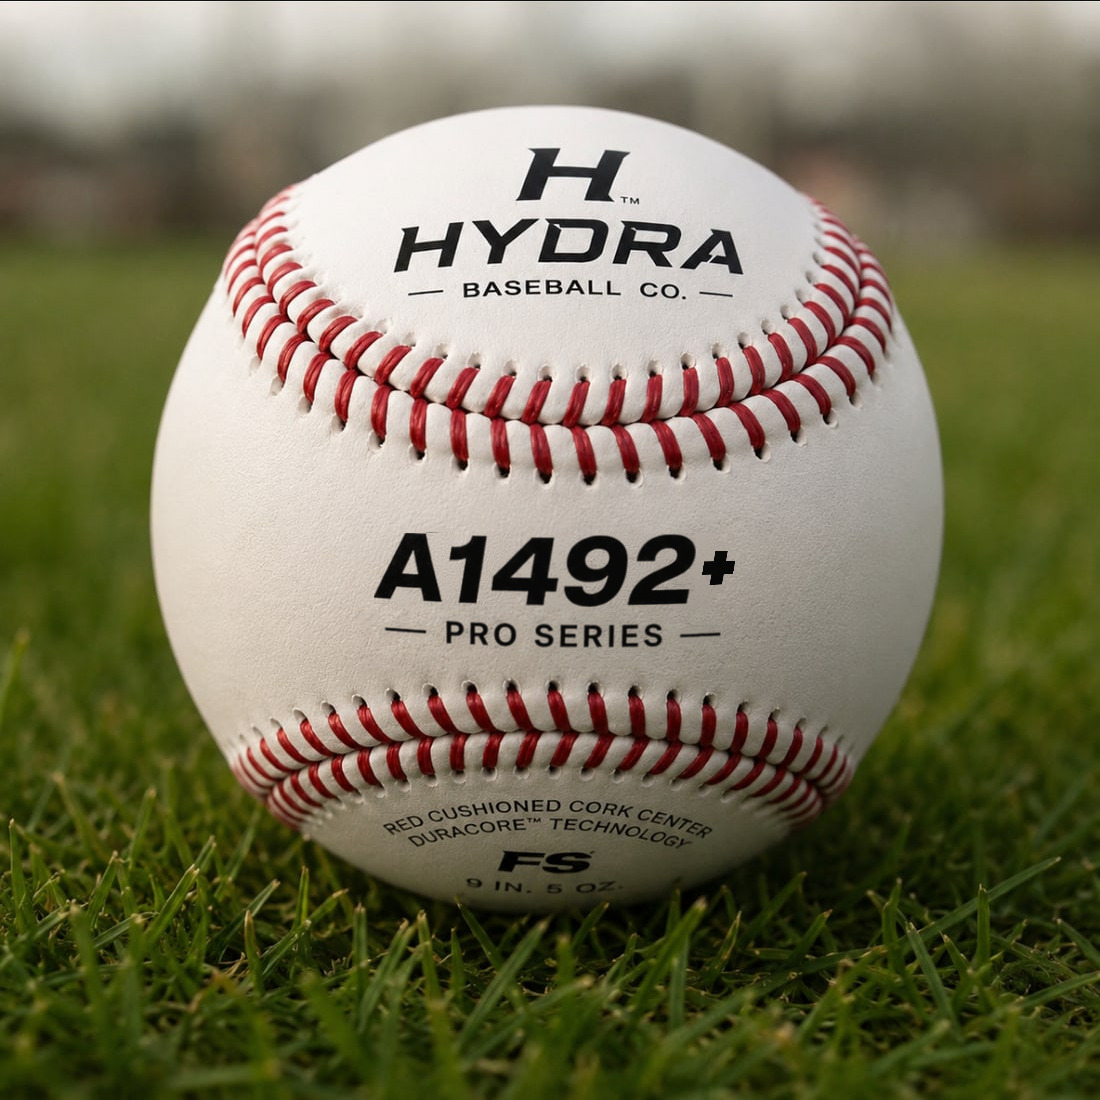
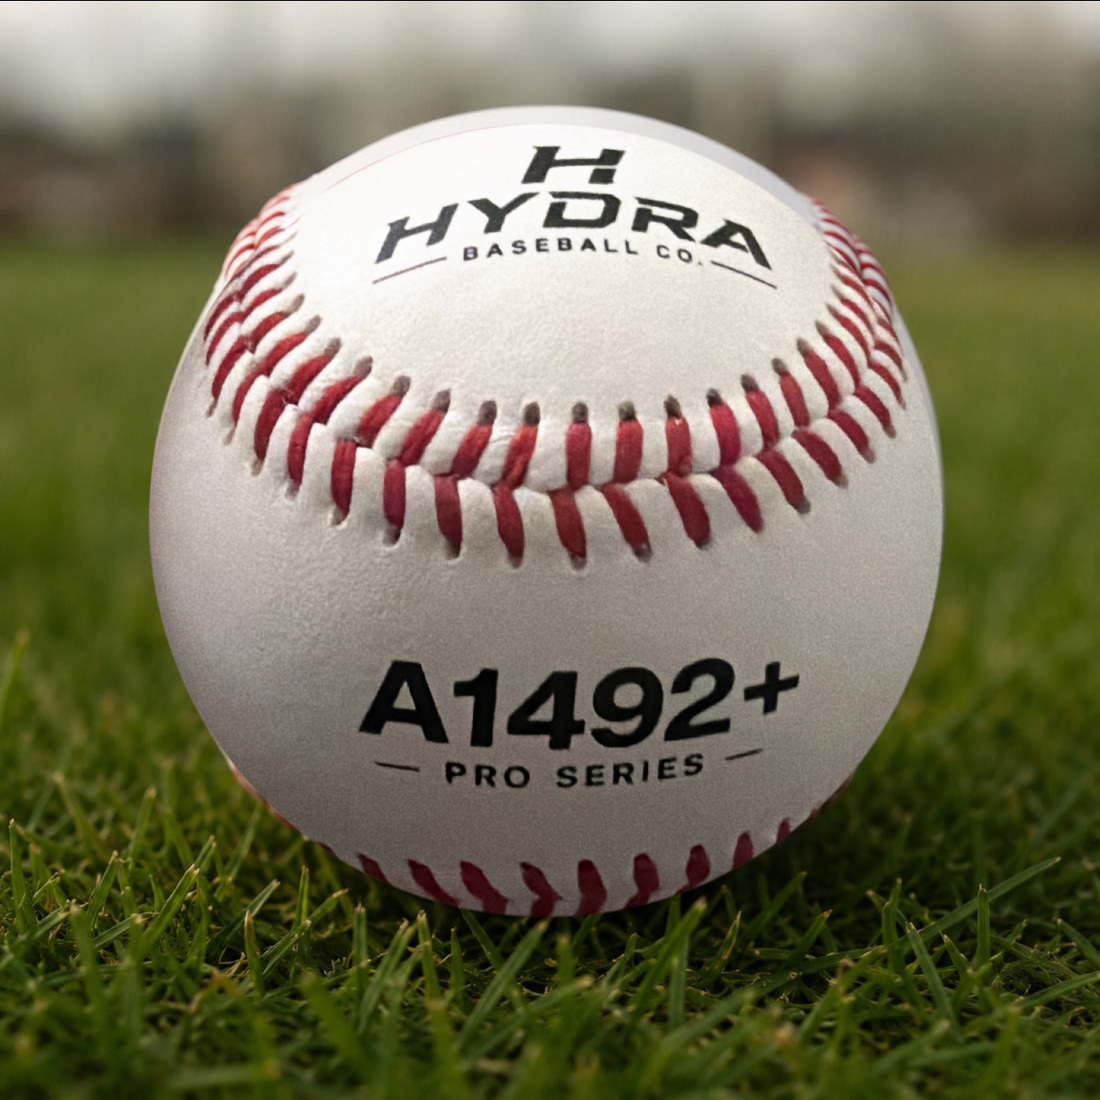
Use the real A1492+ photo, and land the two team runs
The game ball's shot was synthesised in the last commit: the A1492
letterforms lifted off ball.jpg and a plus drawn after them, because no
photograph of a plus was to hand. There is one now. Rebuild
make-ball-plus.py around it.

The phone shot was taken indoors over a stack of shipping cartons, but
the ball in it is whole — the hand cups it from behind, nothing crosses
the limb — so the disc lifts out entire, printing and stitching and all.
The tool fits a circle to the silhouette (bright, neutral, largest blob;
fitted on the top three quarters of the outline, since the shaded
underside falls below the threshold and its edge is not a limb),
corrects the warm indoor light to daylight off the plain leather in both
photographs, and lays the disc into ball.jpg at that ball's own place and
size. The grass, the depth of field and the contact shadow come from the
plate, none of them being inside the disc; the ball goes in five pixels
large so its limb covers the softer, out-of-focus one it replaces.

The mark is now the one that was printed rather than one built to look
like it, so make-ball-blank.py goes back to what it was — nothing
imports it any more.

The two custom runs land as well, straight off the customizer, so the
row under the features is all photographs.

Claude-Session: https://claude.ai/code/session_01KmmHMWSzhkTYqg9vWCQ8DX

Changed region(s): [[0.1236, 0.1236, 0.8655, 0.8345]]

diff --git a/tools/make-ball-plus.py b/tools/make-ball-plus.py
@@ -1,220 +1,144 @@
-"""Build the A1492+ product shot from the A1492 one.
+"""Put the A1492+ on the field the A1492 was photographed on.
 
-Reads public/images/ball.jpg (the A1492 Pro Series shot) and writes
+Reads
 
-  public/images/ball-plus.jpg   the same ball, stamped A1492+
+  public/images/ball-plus-src.jpg   the game ball, shot indoors over the boxes
+  public/images/ball.jpg            the A1492 product shot, for its field
 
-The game ball carries a "+" after the model number; the practice ball does
-not. Both are otherwise the same ball, photographed on the same field, so the
-plus is printed onto the photo the site already ships rather than shot again.
+and writes
 
-The mark is not redrawn from a font. It is lifted off the photograph the way
-make-panel-lockup.py lifts it -- black top-hat for the ink, then flattened off
-the sphere -- so the letterforms stay the ones that were printed. Only the plus
-is new: an upright cross built to the numerals' own stroke width and cap
-height, then sheared to the lean measured off their stems.
+  public/images/ball-plus.jpg       the game ball, on that field
 
-Adding a glyph makes the mark wider, so the model line slides left by half the
-plus's advance and A1492+ sits centred in the panel the way A1492 did. The
-PRO SERIES line underneath is untouched. Then the panel is cleared and the
-whole thing printed back, both by make-ball-blank.py's own routines, so the
-ink lands at the density the printing it replaced was measured at.
+The two balls differ only by the "+" after the model number, and the only
+photograph of a plus is a phone shot taken in a dim room over a stack of
+shipping cartons. The ball in it is whole: the hand cups it from behind and
+nothing crosses the limb, so the disc lifts out entire, with its printing and
+its stitching, and needs no reconstruction. Dropping it onto the A1492's field
+at that ball's own place and size brings the grass, the depth of field and the
+contact shadow along with it, since none of those are inside the disc.
+
+The limb is found rather than measured. Threshold for something bright and
+neutral (the leather; skin and cardboard are warm), keep the largest blob, and
+fit a circle to the top three quarters of its outline — the shaded underside
+falls below the threshold, so the outline there is the threshold's edge and not
+the ball's. The fit is then re-run a few times without whatever points sit far
+off it.
+
+Indoors the leather reads warm and dim. A per-channel gain, measured off the
+plain leather in both photographs, carries it to daylight; the highlights are
+rolled off with a tanh rather than clipped, which would flatten the top of the
+sphere. The ball is laid in a few pixels large so its own limb covers the
+softer, out-of-focus one it replaces instead of leaving a rim of it showing.
 
 Run from the repo root:  python3 tools/make-ball-plus.py
 """
-import importlib.util
-import pathlib
-
-from PIL import Image
+from PIL import Image, ImageOps
 import numpy as np
+from scipy import ndimage as ndi
 
-ROOT = pathlib.Path(__file__).resolve().parent.parent
-SRC = 'public/images/ball.jpg'
+HAND = 'public/images/ball-plus-src.jpg'
+PLATE = 'public/images/ball.jpg'
 OUT = 'public/images/ball-plus.jpg'
 
-# The A1492 mark does not fill the leather between the seams, so the plus goes
-# on beside it rather than the line being shrunk to make room. Both the box the
-# printing is cleared from and stamped back into, and the flat frame the panel
-# is read onto, are widened past make-ball-blank.py's PANEL_BOX to hold it.
-PLUS_BOX = (355, 790, 515, 695)
-# fx across, fy down, in radii, at PX pixels per radius — the frame of
-# make-panel-lockup.py's unproject(), opened up to cover PLUS_BOX.
-FX0, FX1, FY0, FY1, PX = -0.55, 0.72, -0.12, 0.47, 1400.0
+# The ball in the plate (the same fit make-ball-blank.py measures), and the
+# black band along its top edge, cropped after compositing.
+BALL_CX, BALL_CY, BALL_R = 545.5, 536.8, 394.5
+TOP_CROP = 17
 
-# The plus, in multiples of the model line's cap height and stroke. Sized off
-# the photo of the real ball: a raised cross about half the digits' height, cut
-# a little finer than their stems.
-PLUS_H = 0.47
-PLUS_STROKE = 0.72
-PLUS_GAP = 0.10                       # space between the 2 and the plus
-PLUS_MID = 0.51                       # its centre, above the digits' baseline
+# The plate's ball is a touch soft at the limb, so the new one goes in this
+# many pixels larger to cover it.
+PAD = 5.0
+# Leather against a warm, dim room: bright enough, neutral enough, not orange.
+LIT = 85
+NEUTRAL = 0.26
+WARM = 48
+# Highlights above this roll off instead of clipping, once the gain is on.
+KNEE = 225.0
 
 
-def load(name):
-    """Import a sibling tool by filename (they are scripts, not modules)."""
-    spec = importlib.util.spec_from_file_location(
-        name.replace('-', '_'), ROOT / 'tools' / (name + '.py'))
-    mod = importlib.util.module_from_spec(spec)
-    spec.loader.exec_module(mod)
-    return mod
+def silhouette(img):
+    """Mask of the ball: the largest bright, neutral, un-warm blob."""
+    lum = img.mean(2)
+    mx, mn = img.max(2), img.min(2)
+    sat = (mx - mn) / np.maximum(mx, 1)
+    m = (lum > LIT) & (sat < NEUTRAL) & ((img[..., 0] - img[..., 2]) < WARM)
+
+    # Close over the printing and the seam holes, then drop everything the
+    # room contributes that happens to be pale.
+    m = ndi.binary_fill_holes(ndi.binary_closing(m, np.ones((25, 25))))
+    for step in (np.ones((41, 41)), None):
+        if step is not None:
+            m = ndi.binary_opening(m, step)
+        lab, n = ndi.label(m)
+        if n == 0:
+            raise SystemExit('no ball found in ' + HAND)
+        m = lab == 1 + int(np.argmax(ndi.sum(m, lab, range(1, n + 1))))
+    return m
 
 
-def bands(mask):
-    """Row ranges of the rows of type in a flattened panel, top down."""
-    on = (mask > 0.5).any(1)
-    out, start = [], None
-    for y, v in enumerate(on):
-        if v and start is None:
-            start = y
-        elif not v and start is not None:
-            out.append((start, y)); start = None
-    if start is not None:
-        out.append((start, len(on)))
-    return out
+def limb(mask):
+    """Least-squares circle through the silhouette's true outline."""
+    edge = mask & ~ndi.binary_erosion(mask, np.ones((3, 3)))
+    ys, xs = np.nonzero(edge)
+    # The underside is shaded past the threshold, so its outline is not a limb.
+    keep = ys < ys.min() + 0.72 * (ys.max() - ys.min())
+    xs, ys = xs[keep].astype(np.float64), ys[keep].astype(np.float64)
+
+    for _ in range(4):
+        basis = np.stack([xs, ys, np.ones_like(xs)], 1)
+        sol, *_ = np.linalg.lstsq(basis, xs ** 2 + ys ** 2, rcond=None)
+        cx, cy = sol[0] / 2, sol[1] / 2
+        r = np.sqrt(sol[2] + cx * cx + cy * cy)
+        off = np.abs(np.hypot(xs - cx, ys - cy) - r)
+        near = off < max(3 * off.std(), 4)
+        xs, ys = xs[near], ys[near]
+    return cx, cy, r, len(xs)
 
 
-def stroke_width(band):
-    """Median horizontal ink run — the stroke the glyphs are drawn with."""
-    runs = []
-    for row in band > 0.5:
-        edges = np.diff(np.concatenate(([0], row.view(np.int8), [0])))
-        runs.extend(np.flatnonzero(edges < 0) - np.flatnonzero(edges > 0))
-    return float(np.median(runs))
+def leather(img, rad, r):
+    """Mean colour of the plain leather — bright, off the seams and the print."""
+    core = rad < r * 0.85
+    m = core & (img.mean(2) > np.percentile(img.mean(2)[core], 55))
+    m &= (img[..., 0] - img[..., 1] < 30) & (np.abs(img[..., 1] - img[..., 2]) < 30)
+    return np.array([img[..., c][m].mean() for c in range(3)])
 
 
-def lean(band):
-    """The italic's slope, measured off the stem of the narrowest glyph.
-
-    Same measurement deslant() makes in make-panel-lockup.py, but the slope is
-    what is wanted here rather than the sheared artwork.
-    """
-    on = (band > 0.5).any(0)
-    runs, start = [], None
-    for x, v in enumerate(on):
-        if v and start is None:
-            start = x
-        elif not v and start is not None:
-            runs.append((start, x - 1)); start = None
-    if start is not None:
-        runs.append((start, len(on) - 1))
-    x0, x1 = min(runs, key=lambda r: r[1] - r[0])
-
-    top = int(band.shape[0] * 0.45)
-    ys, cs = [], []
-    for y in range(top, band.shape[0]):
-        m = np.flatnonzero(band[y, x0:x1 + 1] > 0.5)
-        if m.size > 3:
-            ys.append(y); cs.append(m.mean() + x0)
-    return float(np.polyfit(np.array(ys, float), np.array(cs, float), 1)[0])
+def sample(img, sx, sy):
+    """Bilinear read of `img` at the given coordinates."""
+    i, j = sx.astype(int), sy.astype(int)
+    tx, ty = (sx - i)[..., None], (sy - j)[..., None]
+    return (img[j, i] * (1 - tx) * (1 - ty) + img[j, i + 1] * tx * (1 - ty) +
+            img[j + 1, i] * (1 - tx) * ty + img[j + 1, i + 1] * tx * ty)
 
 
-def shear(art, slope):
-    """Lean upright artwork by `slope`, the inverse of deslant()'s shear."""
-    h, w = art.shape
-    mid = h / 2.0
-    pad = int(abs(slope) * h) + 2
-    out = np.zeros((h, w + 2 * pad), np.float32)
-    src = np.arange(w + 2 * pad, dtype=np.float32) - pad
-    for y in range(h):
-        u = src - slope * (y - mid)
-        i = np.floor(u).astype(int)
-        t = u - i
-        ok = (i >= 0) & (i < w - 1)
-        out[y, ok] = art[y, i[ok]] * (1 - t[ok]) + art[y, i[ok] + 1] * t[ok]
-    return out
+hand = np.asarray(ImageOps.exif_transpose(Image.open(HAND)).convert('RGB')).astype(np.float32)
+plate = np.asarray(Image.open(PLATE).convert('RGB')).astype(np.float32)
+hh, hw, _ = hand.shape
+H, W, _ = plate.shape
 
+cx, cy, r, n = limb(silhouette(hand))
+print('limb  cx %.1f  cy %.1f  r %.1f  from %d outline points' % (cx, cy, r, n))
 
-def paste(sheet, art, y, x):
-    """Lay `art` into `sheet` at (y, x), keeping whichever ink is heavier."""
-    h, w = art.shape
-    y0, x0 = max(y, 0), max(x, 0)
-    y1, x1 = min(y + h, sheet.shape[0]), min(x + w, sheet.shape[1])
-    if y0 >= y1 or x0 >= x1:
-        raise SystemExit('artwork falls outside the frame — widen FX0..FY1')
-    if (y1 - y0, x1 - x0) != (h, w):
-        raise SystemExit('artwork is clipped by the frame — widen FX0..FY1')
-    target = sheet[y0:y1, x0:x1]
-    np.maximum(target, art, out=target)
+hyy, hxx = np.mgrid[0:hh, 0:hw]
+src = leather(hand, np.hypot(hxx - cx, hyy - cy), r)
+yy, xx = np.mgrid[0:H, 0:W].astype(np.float32)
+rad = np.hypot(xx - BALL_CX, yy - BALL_CY)
+dst = leather(plate, rad, BALL_R)
+gain = dst / src
+print('leather  indoors %s  ->  field %s   gain %s'
+      % (np.round(src, 1), np.round(dst, 1), np.round(gain, 3)))
 
+# Read the hand photo so its limb lands on the plate ball's, plus the pad.
+out_r = BALL_R + PAD
+k = r / out_r
+ball = sample(hand,
+              np.clip(cx + (xx - BALL_CX) * k, 0, hw - 1.001),
+              np.clip(cy + (yy - BALL_CY) * k, 0, hh - 1.001)) * gain
+ball = np.where(ball > KNEE, KNEE + (255 - KNEE) * np.tanh((ball - KNEE) / (255 - KNEE)), ball)
 
-def cross(size, stroke):
-    """An upright plus, `size` square, drawn with `stroke`-wide arms.
+alpha = np.clip((out_r - 1.5 - rad) / 3.0, 0, 1)[..., None]
+out = (plate * (1 - alpha) + ball * alpha)[TOP_CROP:]
+print('ball %.0fpx across, %.1f%% of the frame' % (2 * out_r, 100 * alpha.mean()))
 
-    Antialiased by coverage rather than a hard mask, so it takes the same soft
-    edge the photographed glyphs around it carry.
-    """
-    n = int(round(size))
-    x = np.arange(n) + 0.5 - n / 2.0
-    dx, dy = np.abs(x)[None, :], np.abs(x)[:, None]
-    half = stroke / 2.0
-    # Distance outside each arm, softened over a pixel: the union of a
-    # horizontal bar and a vertical one.
-    bar_h = np.clip(half + 0.5 - dy, 0, 1) * np.clip(size / 2 + 0.5 - dx, 0, 1)
-    bar_v = np.clip(half + 0.5 - dx, 0, 1) * np.clip(size / 2 + 0.5 - dy, 0, 1)
-    return np.maximum(bar_h, bar_v).astype(np.float32)
-
-
-blank = load('make-ball-blank')
-
-photo = np.asarray(Image.open(ROOT / SRC).convert('RGB')).astype(np.float32)
-px0, px1, py0, py1 = PLUS_BOX
-region = photo[py0:py1, px0:px1]
-
-# Ink coverage of the panel, soft-edged, exactly as make-panel-lockup.py reads
-# it: these glyphs are becoming artwork again, so they keep their printed edge.
-lum = 0.299 * region[..., 0] + 0.587 * region[..., 1] + 0.114 * region[..., 2]
-closed = blank.morph(blank.morph(lum, 20, True), 20, False)
-depth = closed - lum
-cov = np.clip(depth / np.maximum(closed * 0.95, 1), 0, 1) * np.clip((depth - 18) / 20.0, 0, 1)
-cov[(region[..., 0] - region[..., 1]) > 22] = 0      # red seam thread is not ink
-
-# Flatten the panel off the sphere onto the artwork frame.
-w = int((FX1 - FX0) * PX)
-h = int((FY1 - FY0) * PX)
-fx = FX0 + (np.arange(w) + 0.5) / PX
-fy = FY0 + (np.arange(h) + 0.5) / PX
-FY, FX = np.meshgrid(fy, fx, indexing='ij')
-r = np.hypot(FX, FY)
-k = np.where(r < 1e-6, 1.0, np.sin(np.clip(r, None, np.pi / 2)) / np.maximum(r, 1e-6))
-sx = np.clip(blank.BALL_CX + FX * k * blank.BALL_R - px0, 0, cov.shape[1] - 1.001)
-sy = np.clip(blank.BALL_CY + FY * k * blank.BALL_R - py0, 0, cov.shape[0] - 1.001)
-i, j = sx.astype(int), sy.astype(int)
-tx, ty = sx - i, sy - j
-flat = (cov[j, i] * (1 - tx) * (1 - ty) + cov[j, i + 1] * tx * (1 - ty) +
-        cov[j + 1, i] * (1 - tx) * ty + cov[j + 1, i + 1] * tx * ty).astype(np.float32)
-
-# The model line is the first row of type; PRO SERIES is the second.
-rows = bands(flat)
-r0, r1 = rows[0]
-band = flat[r0:r1]
-cols = np.flatnonzero((band > 0.5).any(0))
-c0, c1 = int(cols[0]), int(cols[-1]) + 1
-cap = r1 - r0
-print('model line %dx%d at rows %d-%d, cols %d-%d' % (c1 - c0, cap, r0, r1, c0, c1))
-
-stroke = stroke_width(band)
-slope = lean(band)
-print('  stroke %.1fpx, leaning %.1f deg' % (stroke, np.degrees(np.arctan(-slope))))
-
-# Build the plus, cut a little finer than the numerals and leaned to match.
-plus = shear(cross(PLUS_H * cap, PLUS_STROKE * stroke), slope)
-pcols = np.flatnonzero((plus > 0.01).any(0))
-plus = plus[:, pcols[0]:pcols[-1] + 1]
-gap = int(round(PLUS_GAP * cap))
-advance = plus.shape[1] + gap
-shift = advance // 2
-print('  plus %dx%d, advance %dpx — model line slides %dpx left'
-      % (plus.shape[1], plus.shape[0], advance, shift))
-
-# Slide the model line left by half the advance so A1492+ sits centred where
-# A1492 did, then set the plus after the 2. PRO SERIES underneath stays put.
-art = flat.copy()
-art[r0:r1] = 0
-paste(art, band[:, c0:c1], r0, c0 - shift)
-paste(art, plus, int(round(r1 - PLUS_MID * cap - plus.shape[0] / 2.0)), c1 - shift + gap)
-
-# Clear the panel and print the new mark back, at the density of the old one.
-centre = ((FX0 + FX1) / 2.0, (FY0 + FY1) / 2.0)
-out = blank.stamp(blank.clear(photo, PLUS_BOX, 'panel'),
-                  PLUS_BOX, art, centre, FX1 - FX0, 'A1492+')
-blank.save(out, str(ROOT / OUT))
+Image.fromarray(np.clip(out, 0, 255).astype(np.uint8)).save(OUT, quality=94, subsampling=0)
+print('wrote %-34s %dx%d' % (OUT, out.shape[1], out.shape[0]))

diff --git a/tools/make-ball-blank.py b/tools/make-ball-blank.py
@@ -184,18 +184,15 @@ def save(photo, path):
     print('wrote %-42s %dx%d' % (path, cropped.shape[1], cropped.shape[0]))
 
 
-# Guarded so the routines above can be imported — make-ball-plus.py prints the
-# game ball's mark with the same clear/stamp pair — without rebuilding these.
-if __name__ == '__main__':
-    photo = np.asarray(Image.open(SRC).convert('RGB')).astype(np.float32)
-    lockup = np.asarray(Image.open(LOCKUP).convert('RGBA')).astype(np.float32)[..., 3] / 255.0
+photo = np.asarray(Image.open(SRC).convert('RGB')).astype(np.float32)
+lockup = np.asarray(Image.open(LOCKUP).convert('RGBA')).astype(np.float32)[..., 3] / 255.0
 
-    # A logo on the panel leaves the Hydra wordmark where it is printed, up in
-    # the horseshoe, so that version only clears the panel.
-    save(clear(photo, PANEL_BOX, 'panel'), OUT_PANEL)
+# A logo on the panel leaves the Hydra wordmark where it is printed, up in the
+# horseshoe, so that version only clears the panel.
+save(clear(photo, PANEL_BOX, 'panel'), OUT_PANEL)
 
-    # A logo in the horseshoe takes the wordmark's place, so the Hydra name
-    # moves down to the panel: clear both spots, then print the lockup over the
-    # model mark that was there.
-    horseshoe = clear(clear(photo, WORDMARK_BOX, 'wordmark'), PANEL_BOX, 'panel')
-    save(stamp(horseshoe, PANEL_BOX, lockup, LOCKUP_AT, LOCKUP_W, 'lockup'), OUT_HORSESHOE)
+# A logo in the horseshoe takes the wordmark's place, so the Hydra name moves
+# down to the panel: clear both spots, then print the lockup over the model
+# mark that was there.
+horseshoe = clear(clear(photo, WORDMARK_BOX, 'wordmark'), PANEL_BOX, 'panel')
+save(stamp(horseshoe, PANEL_BOX, lockup, LOCKUP_AT, LOCKUP_W, 'lockup'), OUT_HORSESHOE)

diff --git a/public/images/README.md b/public/images/README.md
@@ -26,9 +26,10 @@ To swap the video, drop a web-friendly **H.264 MP4** at `public/videos/hero.mp4`
 | File | Where it shows | Notes |
 |------|----------------|-------|
 | `ball.jpg` | Source photo for everything below | The A1492 Pro Series product shot. No longer served to the browser itself — the tools measure and retouch it. |
-| `ball-plus.jpg` | "The Ball" section, and the third shot in "The Hydra Difference" | The same photo stamped `A1492+`, which is the game ball the section leads with. Built by `tools/make-ball-plus.py`. |
-| `custom-indiana.jpg` | "The Hydra Difference" | _Not committed yet._ A run stamped for Indiana Baseball. Until it lands, the gradient fallback shows in its place. |
-| `custom-icml.jpg` | "The Hydra Difference" | _Not committed yet._ A run stamped for the Indiana County Men's League, the league mark in the horseshoe. Same fallback. |
+| `ball-plus.jpg` | "The Ball" section, and the third shot in "The Hydra Difference" | The A1492+ game ball the section leads with, cut out of `ball-plus-src.jpg` and set on this photo's field. Built by `tools/make-ball-plus.py`. |
+| `ball-plus-src.jpg` | Nowhere — an input to that tool | The phone shot of the game ball in hand, indoors. Kept at full size and orientation as it came off the phone; the tool applies the EXIF rotation itself. |
+| `custom-indiana.jpg` | "The Hydra Difference" | A run stamped for Indiana Baseball, the team mark on the panel. Straight off the customizer, no retouching. |
+| `custom-icml.jpg` | "The Hydra Difference" | A run stamped for the Indiana County Men's League. The league mark takes the horseshoe, so the Hydra name sits on the panel — the `ball-blank-horseshoe.jpg` path below. |
 | `ball-blank.jpg` | "Your Logo. Our Leather." customizer | The same photo with the printed A1492 / PRO SERIES panel retouched out and the black band cropped off the top, so an uploaded logo lands on bare leather. The Hydra wordmark stays. |
 | `ball-blank-horseshoe.jpg` | Same, when the logo is placed on the horseshoe | The Hydra wordmark cleared instead, since that's the spot the mark is taking — so the Hydra name moves down to the panel, where the `HYDRA / A1492` lockup is printed over the model mark. Fetched only when someone picks that placement. |
 | `panel-lockup.png` | Printed into `ball-blank-horseshoe.jpg` | The `HYDRA / A1492` lockup as flat artwork, black on transparent. Not served to the browser — it's an input to the tool below. |
@@ -37,10 +38,11 @@ To swap the video, drop a web-friendly **H.264 MP4** at `public/videos/hero.mp4`
 Both blanks are generated from `ball.jpg` by `tools/make-ball-blank.py` (`python3
 tools/make-ball-blank.py` from the repo root), and the lockup it prints comes
 from `tools/make-panel-lockup.py` — run that first if the logo or the artwork
-has changed, then re-run the blanks. `tools/make-ball-plus.py` builds
-`ball-plus.jpg` off the same photo and the same clear/stamp pair, lifting the
-`A1492` letterforms out of the photograph and setting a plus after them rather
-than redrawing the mark from a font. `make-panel-lockup.py` builds the lockup
+has changed, then re-run the blanks. `tools/make-ball-plus.py` is independent of
+those two: it fits a circle to the ball in `ball-plus-src.jpg`, lifts the disc
+whole — nothing occludes it, the hand is behind — corrects the indoor light to
+daylight off the leather in both photos, and lays it into `ball.jpg` at that
+ball's own place and size. `make-panel-lockup.py` builds the lockup
 out of artwork already in the repo rather than a font: the wordmark off
 `public/logo.png`, the model mark lifted off `ball.jpg` itself and flattened
 back off the sphere. Drop a real vector export in as `panel-lockup.png` instead
